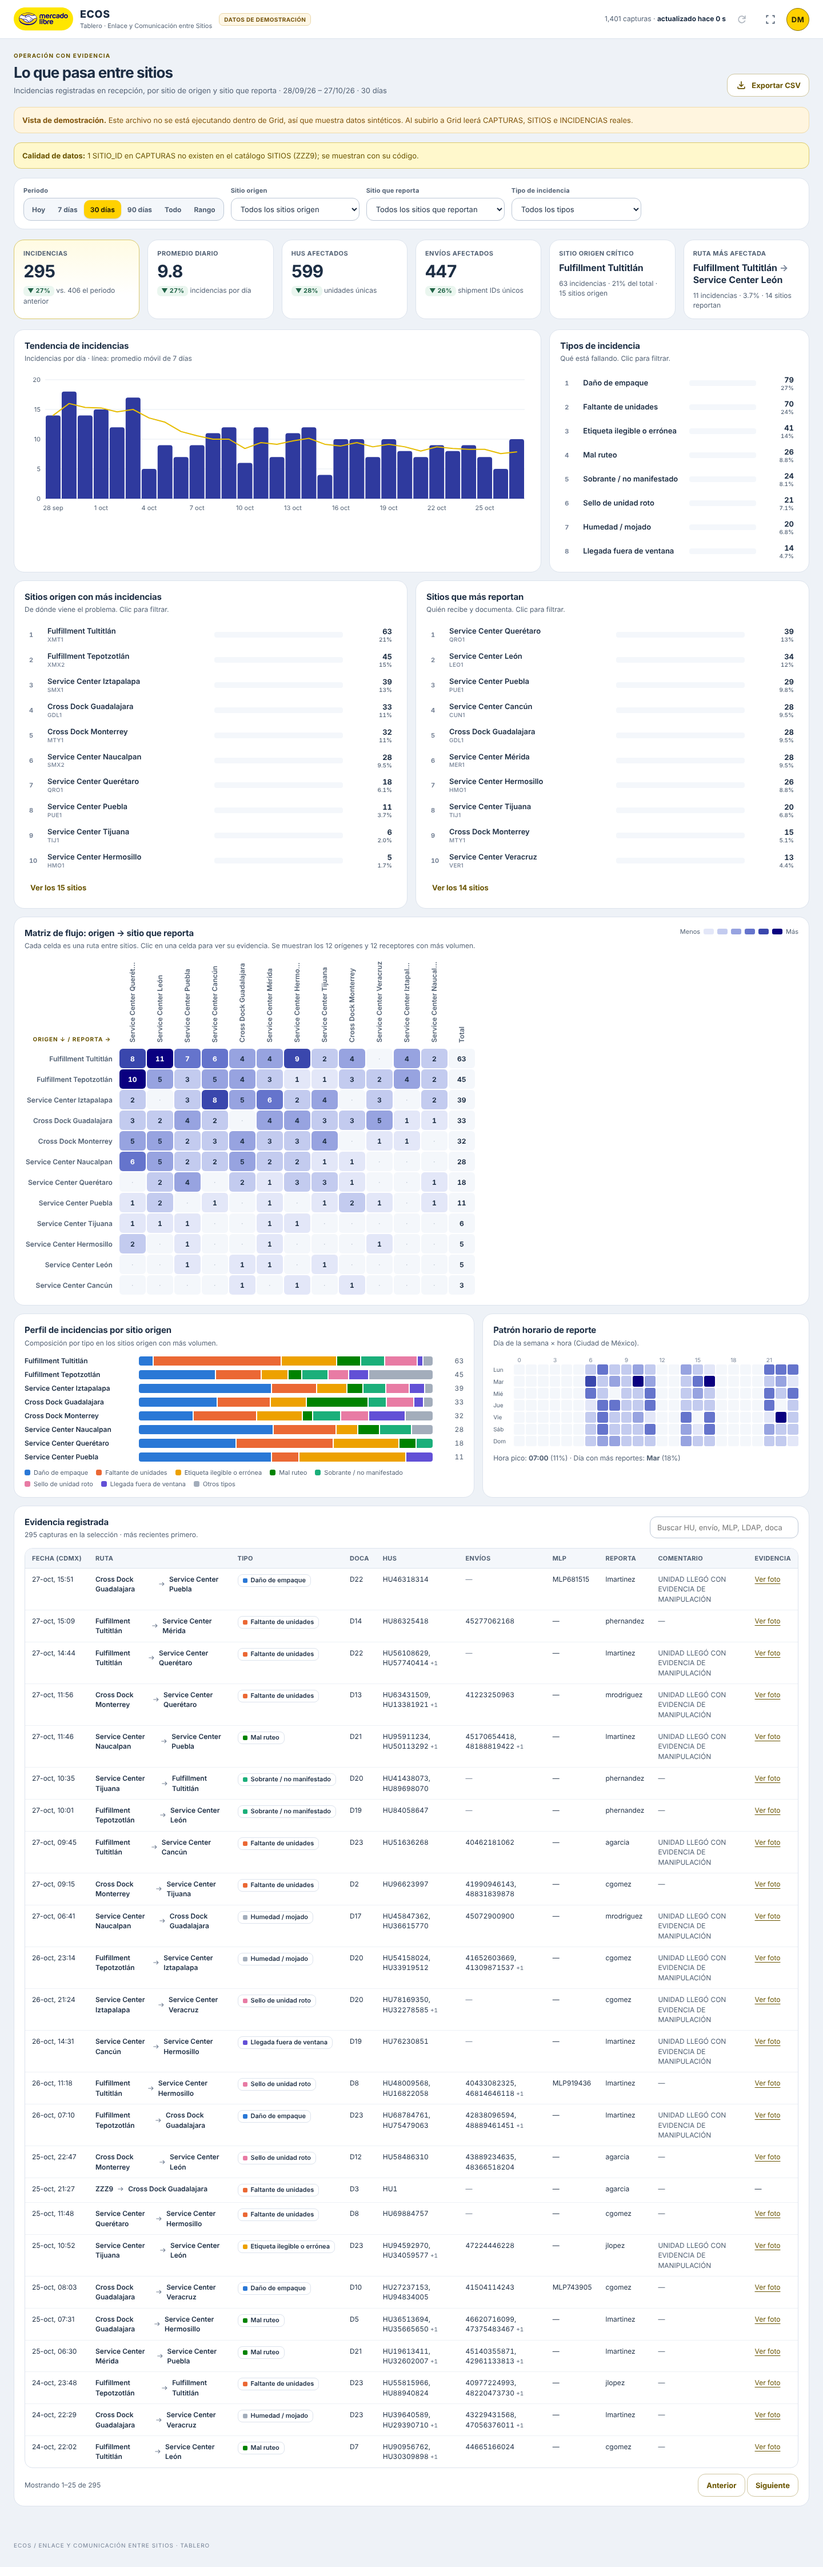
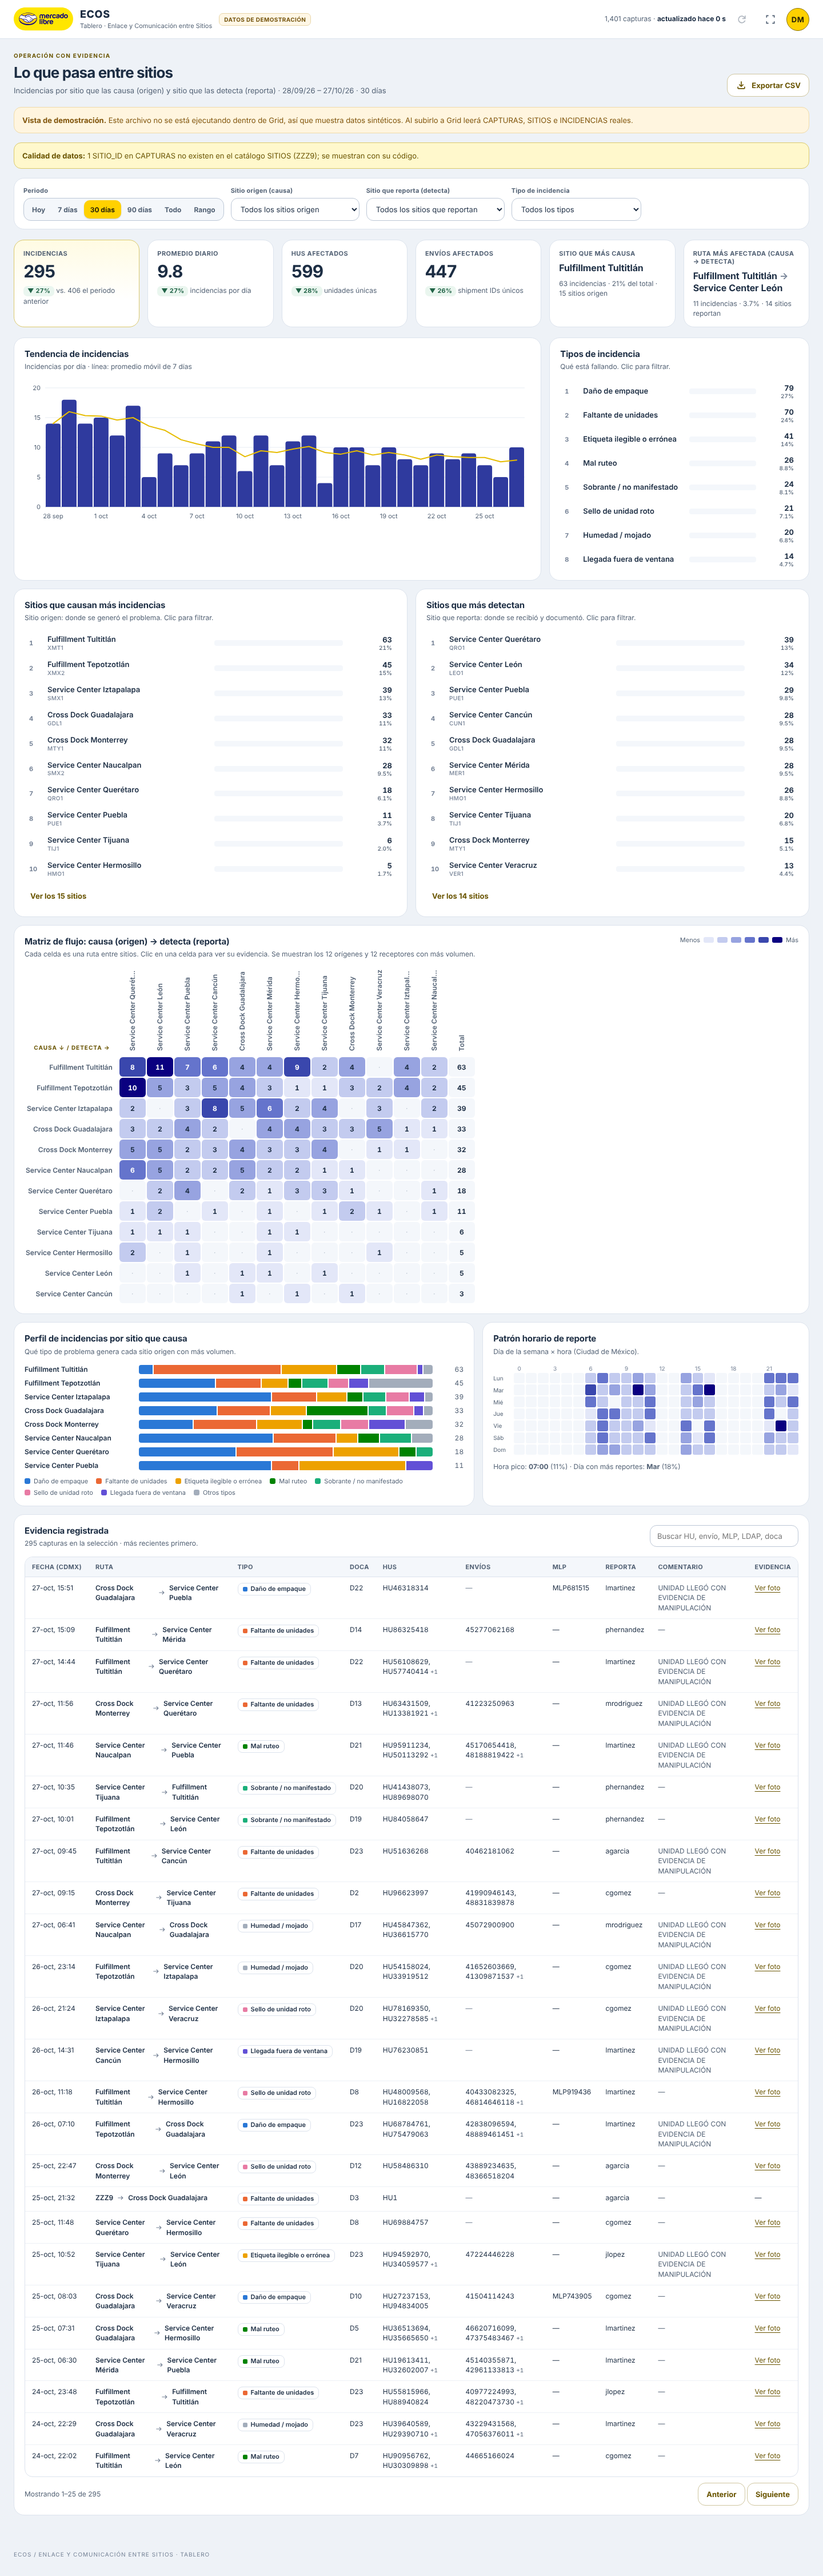
Aclarar semántica causa/detecta en el tablero ECOS
Sitio anterior = sitio que causa la incidencia; sitio que reporta = sitio
que la detecta. Se ajustan filtros, KPIs, rankings y matriz.

Claude-Session: https://claude.ai/code/session_01W7P36WzL7PAke88rbL3WFj

diff --git a/ecos-dashboard/ECOS-Tablero.html b/ecos-dashboard/ECOS-Tablero.html
@@ -333,7 +333,7 @@ html:fullscreen { overflow-y: auto; background: var(--canvas); }
       <div>
         <p class="eyebrow">OPERACIÓN CON EVIDENCIA</p>
         <h1 class="page-title">Lo que pasa entre sitios</h1>
-        <p class="page-sub" id="page-sub">Incidencias registradas en recepción, por sitio de origen y sitio que reporta.</p>
+        <p class="page-sub" id="page-sub">Incidencias por sitio que las causa (origen) y sitio que las detecta (reporta).</p>
       </div>
       <div class="card-tools">
         <button type="button" class="secondary-button" id="export-btn"><svg class="material-icon" viewBox="0 -960 960 960" aria-hidden="true"><path d="M480-320 280-520l56-58 104 104v-326h80v326l104-104 56 58-200 200ZM240-160q-33 0-56.5-23.5T160-240v-120h80v120h480v-120h80v120q0 33-23.5 56.5T720-160H240Z"/></svg>Exportar CSV</button>
@@ -358,8 +358,8 @@ html:fullscreen { overflow-y: auto; background: var(--canvas); }
         <div class="filter"><label for="date-from">Desde</label><input type="date" id="date-from"></div>
         <div class="filter"><label for="date-to">Hasta</label><input type="date" id="date-to"></div>
       </div>
-      <div class="filter"><label for="f-origin">Sitio origen</label><select id="f-origin"></select></div>
-      <div class="filter"><label for="f-reporter">Sitio que reporta</label><select id="f-reporter"></select></div>
+      <div class="filter"><label for="f-origin">Sitio origen (causa)</label><select id="f-origin"></select></div>
+      <div class="filter"><label for="f-reporter">Sitio que reporta (detecta)</label><select id="f-reporter"></select></div>
       <div class="filter"><label for="f-type">Tipo de incidencia</label><select id="f-type"></select></div>
       <span class="spacer"></span>
       <button type="button" class="text-button" id="clear-filters" hidden>Limpiar filtros</button>
@@ -380,11 +380,11 @@ html:fullscreen { overflow-y: auto; background: var(--canvas); }
 
     <div class="grid">
       <section class="card span-6" aria-labelledby="t-origin">
-        <div class="card-head"><div><h2 class="card-title" id="t-origin">Sitios origen con más incidencias</h2><p class="card-sub">De dónde viene el problema. Clic para filtrar.</p></div></div>
+        <div class="card-head"><div><h2 class="card-title" id="t-origin">Sitios que causan más incidencias</h2><p class="card-sub">Sitio origen: donde se generó el problema. Clic para filtrar.</p></div></div>
         <div id="rank-origin"></div>
       </section>
       <section class="card span-6" aria-labelledby="t-reporter">
-        <div class="card-head"><div><h2 class="card-title" id="t-reporter">Sitios que más reportan</h2><p class="card-sub">Quién recibe y documenta. Clic para filtrar.</p></div></div>
+        <div class="card-head"><div><h2 class="card-title" id="t-reporter">Sitios que más detectan</h2><p class="card-sub">Sitio que reporta: donde se recibió y documentó. Clic para filtrar.</p></div></div>
         <div id="rank-reporter"></div>
       </section>
     </div>
@@ -392,7 +392,7 @@ html:fullscreen { overflow-y: auto; background: var(--canvas); }
     <div class="grid">
       <section class="card" aria-labelledby="t-matrix">
         <div class="card-head">
-          <div><h2 class="card-title" id="t-matrix">Matriz de flujo: origen → sitio que reporta</h2><p class="card-sub" id="matrix-sub">Cada celda es una ruta entre sitios. Clic en una celda para ver su evidencia.</p></div>
+          <div><h2 class="card-title" id="t-matrix">Matriz de flujo: causa (origen) → detecta (reporta)</h2><p class="card-sub" id="matrix-sub">Cada celda es una ruta entre sitios. Clic en una celda para ver su evidencia.</p></div>
           <div class="seq-legend" aria-hidden="true">Menos <i style="background:var(--seq-1)"></i><i style="background:var(--seq-2)"></i><i style="background:var(--seq-3)"></i><i style="background:var(--seq-4)"></i><i style="background:var(--seq-5)"></i><i style="background:var(--seq-6)"></i> Más</div>
         </div>
         <div class="matrix-wrap" id="matrix"></div>
@@ -401,7 +401,7 @@ html:fullscreen { overflow-y: auto; background: var(--canvas); }
 
     <div class="grid">
       <section class="card span-7" aria-labelledby="t-mix">
-        <div class="card-head"><div><h2 class="card-title" id="t-mix">Perfil de incidencias por sitio origen</h2><p class="card-sub">Composición por tipo en los sitios origen con más volumen.</p></div></div>
+        <div class="card-head"><div><h2 class="card-title" id="t-mix">Perfil de incidencias por sitio que causa</h2><p class="card-sub">Qué tipo de problema genera cada sitio origen con más volumen.</p></div></div>
         <div id="mix"></div>
       </section>
       <section class="card span-5" aria-labelledby="t-hours">
@@ -691,7 +691,7 @@ html:fullscreen { overflow-y: auto; background: var(--canvas); }
     const cur = inRange(base, range);
     const prev = inRange(base, { from: range.from - days, to: range.from - 1 });
     const label = S.filters.period === 'today' ? `hoy (${fmtDay(numDay(range.to))})` : `${fmtDay(numDay(range.from))} – ${fmtDay(numDay(range.to))} · ${days} días`;
-    $('page-sub').textContent = `Incidencias registradas en recepción, por sitio de origen y sitio que reporta · ${label}`;
+    $('page-sub').textContent = `Incidencias por sitio que las causa (origen) y sitio que las detecta (reporta) · ${label}`;
     renderKpis(cur, prev, days);
     renderTrend(cur, range);
     renderTypes(inRange(applyDims(S.records, 'type'), range));
@@ -727,8 +727,8 @@ html:fullscreen { overflow-y: auto; background: var(--canvas); }
       { label: 'Promedio diario', value: (n / days).toFixed(n / days >= 10 ? 0 : 1), foot: `${deltaChip(n / days, p / days, true)} incidencias por día` },
       { label: 'HUs afectados', value: fmt.format(hus), foot: `${deltaChip(hus, uniq(prev, 'hus'), true)} unidades únicas` },
       { label: 'Envíos afectados', value: fmt.format(ships), foot: `${deltaChip(ships, uniq(prev, 'ships'), true)} shipment IDs únicos` },
-      { label: 'Sitio origen crítico', text: true, value: topO ? esc(siteName(topO.id)) : '—', foot: topO ? `${inc(topO.n)} · ${pct(topO.n, n)} del total · ${origins.length} sitios origen` : 'Sin incidencias en el periodo' },
-      { label: 'Ruta más afectada', text: true, value: routeNames ? `${esc(routeNames[0])} <span style="color:var(--faint)">→</span> ${esc(routeNames[1])}` : '—', foot: topR ? `${inc(topR.n)} · ${pct(topR.n, n)} · ${reporters} sitios reportan` : '' }
+      { label: 'Sitio que más causa', text: true, value: topO ? esc(siteName(topO.id)) : '—', foot: topO ? `${inc(topO.n)} · ${pct(topO.n, n)} del total · ${origins.length} sitios origen` : 'Sin incidencias en el periodo' },
+      { label: 'Ruta más afectada (causa → detecta)', text: true, value: routeNames ? `${esc(routeNames[0])} <span style="color:var(--faint)">→</span> ${esc(routeNames[1])}` : '—', foot: topR ? `${inc(topR.n)} · ${pct(topR.n, n)} · ${reporters} sitios reportan` : '' }
     ];
     $('kpis').innerHTML = tiles.map(t => `<article class="kpi${t.hero ? ' is-hero' : ''}"><p class="kpi-label">${t.label}</p><p class="kpi-value${t.text ? ' is-text' : ''}">${t.value}</p><p class="kpi-foot">${t.foot}</p></article>`).join('');
   }
@@ -807,7 +807,7 @@ html:fullscreen { overflow-y: auto; background: var(--canvas); }
     let max = 0; rows.forEach(o => cols.forEach(c => { max = Math.max(max, cell.get(`${o}\u0000${c}`) || 0); }));
     const hidden = rowsAll.length > LIMIT || colsAll.length > LIMIT;
     $('matrix-sub').textContent = `Cada celda es una ruta entre sitios. Clic en una celda para ver su evidencia.${hidden ? ` Se muestran los ${Math.min(LIMIT, rowsAll.length)} orígenes y ${Math.min(LIMIT, colsAll.length)} receptores con más volumen.` : ''}`;
-    let html = `<table class="matrix"><thead><tr><th><span class="matrix-axis" style="writing-mode:horizontal-tb;transform:none">Origen ↓ / Reporta →</span></th>`;
+    let html = `<table class="matrix"><thead><tr><th><span class="matrix-axis" style="writing-mode:horizontal-tb;transform:none">Causa ↓ / Detecta →</span></th>`;
     cols.forEach(c => { html += `<th scope="col" title="${esc(siteName(c))}"><span>${esc(siteName(c))}</span></th>`; });
     html += '<th scope="col"><span>Total</span></th></tr></thead><tbody>';
     rows.forEach(o => {
